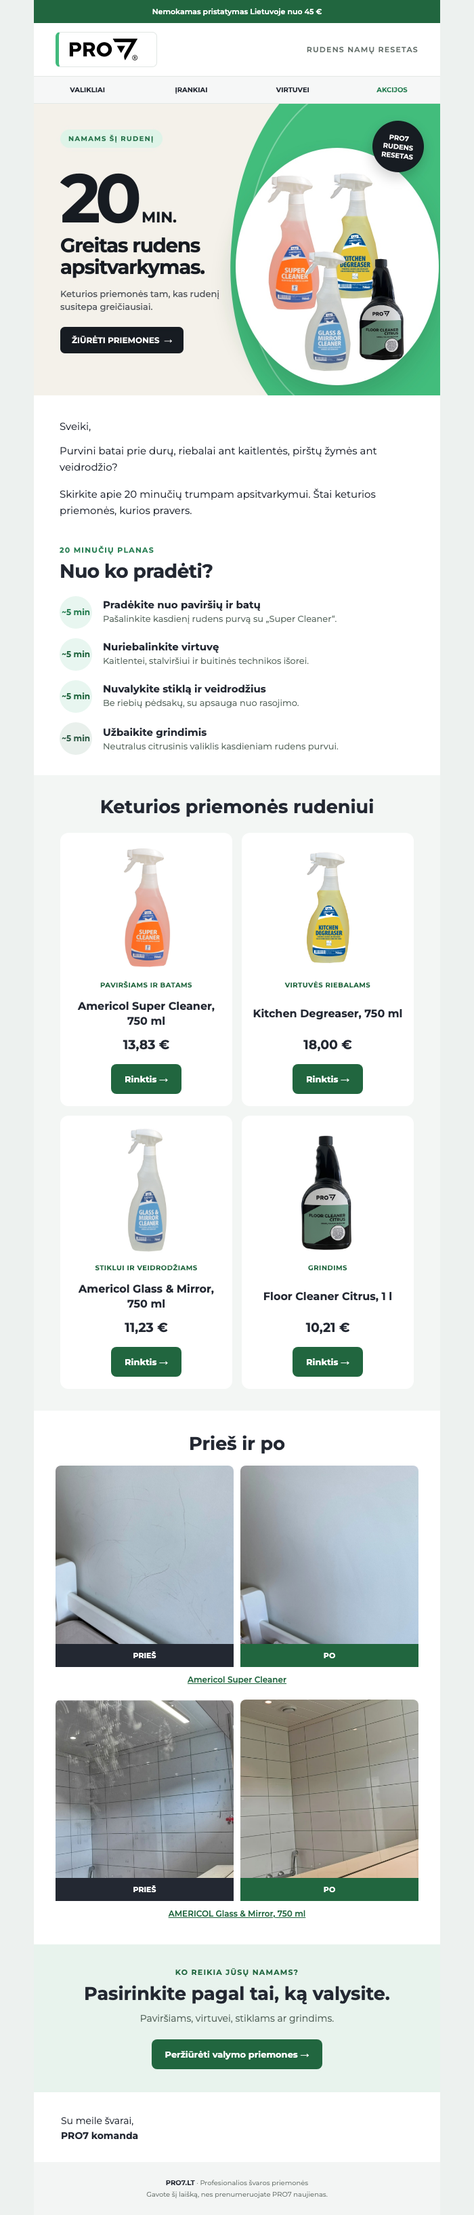
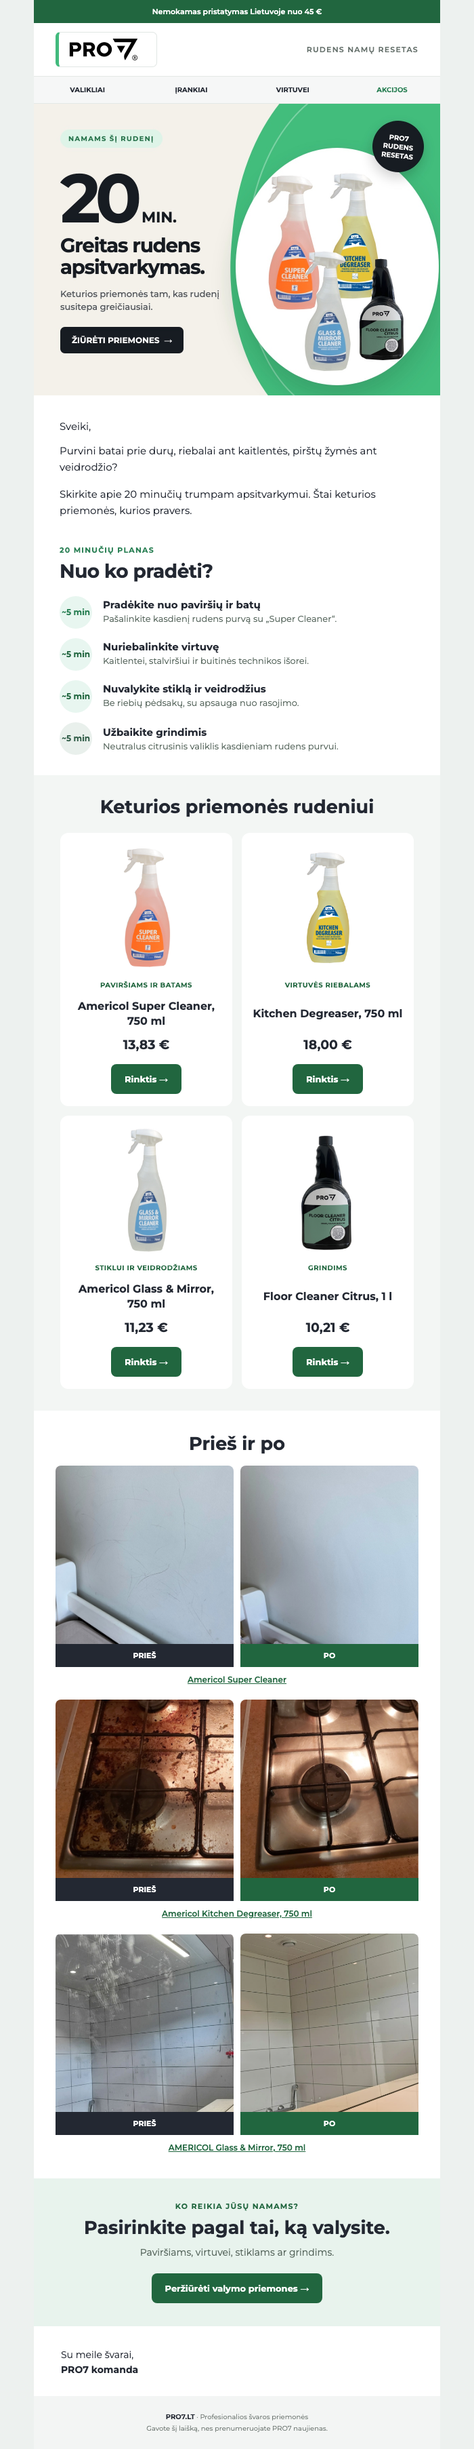
Include Kitchen Degreaser before and after in newsletter

diff --git a/nl2-20min-rudens-resetas/omnisend.html b/nl2-20min-rudens-resetas/omnisend.html
@@ -1,10 +1,10 @@
-<!-- PRO7 NL2. HTML input only. Paste omnisend-styles.css into Styles. Asset commit: fd5c6966be6053d51777ea0aad8c20beee034da1. -->
+<!-- PRO7 NL2. HTML input only. Paste omnisend-styles.css into Styles. Asset commit: 19673d591aebc471332e1b536290d04e2dd6ef27. -->
 <table role="presentation" class="pro7-email canvas" width="100%" cellpadding="0" cellspacing="0" border="0" bgcolor="#edf1ef" style="font-family:Montserrat,Arial,sans-serif;color:#232832;width:100%;max-width:600px;table-layout:fixed;margin:0 auto"><tr><td class="outer" align="center" style="font-family:Montserrat,Arial,sans-serif;padding:0">
     <table role="presentation" class="shell surface" width="100%" align="center" cellpadding="0" cellspacing="0" border="0" bgcolor="#ffffff" style="width:100%;max-width:600px;table-layout:fixed;margin:0 auto">
       <tr><td class="bar" bgcolor="#21663f" align="center" style="font-family:Montserrat,Arial,sans-serif;padding:9px 16px;font-family:Montserrat,Arial,sans-serif;font-size:11px;line-height:16px;font-weight:600;color:#ffffff">Nemokamas pristatymas Lietuvoje nuo 45 €</td></tr>
       <tr><td class="surface header" bgcolor="#ffffff" style="font-family:Montserrat,Arial,sans-serif;padding:13px 32px">
         <table cellpadding="0" cellspacing="0" border="0" role="presentation" width="100%"><tr>
-          <td style="font-family:Montserrat,Arial,sans-serif;"><a href="https://www.pro7.lt/"><img class="logo" src="https://raw.githubusercontent.com/elaiskai/pro7-email-assets/fd5c6966be6053d51777ea0aad8c20beee034da1/nl2-20min-rudens-resetas/assets/pro7-logo-safe.png" width="150" alt="PRO7" style="display:block;border:0;max-width:100%;width:150px;max-width:100%;height:auto"></a></td>
+          <td style="font-family:Montserrat,Arial,sans-serif;"><a href="https://www.pro7.lt/"><img class="logo" src="https://raw.githubusercontent.com/elaiskai/pro7-email-assets/19673d591aebc471332e1b536290d04e2dd6ef27/nl2-20min-rudens-resetas/assets/pro7-logo-safe.png" width="150" alt="PRO7" style="display:block;border:0;max-width:100%;width:150px;max-width:100%;height:auto"></a></td>
           <td class="header-label muted" align="right" style="font-family:Montserrat,Arial,sans-serif;font-family:Montserrat,Arial,sans-serif;font-size:11px;line-height:15px;font-weight:600;letter-spacing:1.2px;text-transform:uppercase;color:#65706b">Rudens namų resetas</td>
         </tr></table>
       </td></tr>
@@ -17,7 +17,7 @@
         </tr></table>
       </td></tr>
 
-      <tr><td style="font-family:Montserrat,Arial,sans-serif;"><a href="https://www.pro7.lt/svaros-prekes-valikliai/valymo-priemones"><img src="https://raw.githubusercontent.com/elaiskai/pro7-email-assets/fd5c6966be6053d51777ea0aad8c20beee034da1/nl2-20min-rudens-resetas/assets/hero-20min.jpg" width="600" alt="20 min. greitam rudens apsitvarkymui. Super Cleaner, Kitchen Degreaser, Glass &amp; Mirror ir Floor Cleaner Citrus. Žiūrėti priemones." style="display:block;border:0;max-width:100%;width:100%;height:auto"></a></td></tr>
+      <tr><td style="font-family:Montserrat,Arial,sans-serif;"><a href="https://www.pro7.lt/svaros-prekes-valikliai/valymo-priemones"><img src="https://raw.githubusercontent.com/elaiskai/pro7-email-assets/19673d591aebc471332e1b536290d04e2dd6ef27/nl2-20min-rudens-resetas/assets/hero-20min.jpg" width="600" alt="20 min. greitam rudens apsitvarkymui. Super Cleaner, Kitchen Degreaser, Glass &amp; Mirror ir Floor Cleaner Citrus. Žiūrėti priemones." style="display:block;border:0;max-width:100%;width:100%;height:auto"></a></td></tr>
 
       <tr><td class="pad" style="font-family:Montserrat,Arial,sans-serif;padding:34px 38px 22px;font-family:Montserrat,Arial,sans-serif;color:#232832">
         <p class="greeting" style="margin:0 0 12px;font-size:15px;line-height:24px">Sveiki,</p>
@@ -46,7 +46,7 @@
 <!--[if mso]><td width="268" valign="top" style="font-family:Montserrat,Arial,sans-serif;"><![endif]-->
 <table class="product-col" role="presentation" width="268" cellpadding="0" cellspacing="0" style="display:inline-table;vertical-align:top;width:100%;max-width:268px;table-layout:fixed"><tr><td class="product-gutter" style="font-family:Montserrat,Arial,sans-serif;padding:0 7px 14px">
 <table cellpadding="0" cellspacing="0" border="0" class="product-card" role="presentation" width="100%" bgcolor="#ffffff" style="border-radius:12px;background:#ffffff">
-<tr><td align="center" style="font-family:Montserrat,Arial,sans-serif;padding:18px 12px 8px"><a href="https://www.pro7.lt/svaros-prekes/113-americol-super-cleaner-0-75-l-universalus-valiklis-koncentratas"><img class="product-img" src="https://raw.githubusercontent.com/elaiskai/pro7-email-assets/fd5c6966be6053d51777ea0aad8c20beee034da1/nl2-20min-rudens-resetas/assets/super-cleaner.png" width="185" height="185" alt="Americol Super Cleaner, 750 ml" style="display:block;border:0;max-width:100%;width:185px;height:185px;margin:0 auto;border-radius:8px"></a></td></tr>
+<tr><td align="center" style="font-family:Montserrat,Arial,sans-serif;padding:18px 12px 8px"><a href="https://www.pro7.lt/svaros-prekes/113-americol-super-cleaner-0-75-l-universalus-valiklis-koncentratas"><img class="product-img" src="https://raw.githubusercontent.com/elaiskai/pro7-email-assets/19673d591aebc471332e1b536290d04e2dd6ef27/nl2-20min-rudens-resetas/assets/super-cleaner.png" width="185" height="185" alt="Americol Super Cleaner, 750 ml" style="display:block;border:0;max-width:100%;width:185px;height:185px;margin:0 auto;border-radius:8px"></a></td></tr>
 <tr><td align="center" height="28" style="font-family:Montserrat,Arial,sans-serif;height:28px;padding:0 12px;font-size:10px;line-height:14px;font-weight:700;letter-spacing:.5px;text-transform:uppercase;color:#21663f">Paviršiams ir batams</td></tr>
 <tr><td align="center" valign="middle" height="56" style="font-family:Montserrat,Arial,sans-serif;height:56px;padding:0 14px"><h3 style="margin:0;font-size:16px;line-height:22px;font-weight:700"><a href="https://www.pro7.lt/svaros-prekes/113-americol-super-cleaner-0-75-l-universalus-valiklis-koncentratas" style="text-decoration:none;color:#232832">Americol Super Cleaner, 750 ml</a></h3></td></tr>
 <tr><td align="center" height="36" style="font-family:Montserrat,Arial,sans-serif;height:36px;font-size:19px;line-height:26px;font-weight:700"><a href="https://www.pro7.lt/svaros-prekes/113-americol-super-cleaner-0-75-l-universalus-valiklis-koncentratas" style="text-decoration:none;color:#232832">13,83 €</a></td></tr>
@@ -57,7 +57,7 @@
 <!--[if mso]><td width="268" valign="top" style="font-family:Montserrat,Arial,sans-serif;"><![endif]-->
 <table class="product-col" role="presentation" width="268" cellpadding="0" cellspacing="0" style="display:inline-table;vertical-align:top;width:100%;max-width:268px;table-layout:fixed"><tr><td class="product-gutter" style="font-family:Montserrat,Arial,sans-serif;padding:0 7px 14px">
 <table cellpadding="0" cellspacing="0" border="0" class="product-card" role="presentation" width="100%" bgcolor="#ffffff" style="border-radius:12px;background:#ffffff">
-<tr><td align="center" style="font-family:Montserrat,Arial,sans-serif;padding:18px 12px 8px"><a href="https://www.pro7.lt/svaros-prekes/1416-americol-kitchen-degreaser-750-ml-virtuves-riebalu-salinimo-priemone"><img class="product-img" src="https://raw.githubusercontent.com/elaiskai/pro7-email-assets/fd5c6966be6053d51777ea0aad8c20beee034da1/nl2-20min-rudens-resetas/assets/kitchen-degreaser.png" width="185" height="185" alt="Kitchen Degreaser, 750 ml" style="display:block;border:0;max-width:100%;width:185px;height:185px;margin:0 auto;border-radius:8px"></a></td></tr>
+<tr><td align="center" style="font-family:Montserrat,Arial,sans-serif;padding:18px 12px 8px"><a href="https://www.pro7.lt/svaros-prekes/1416-americol-kitchen-degreaser-750-ml-virtuves-riebalu-salinimo-priemone"><img class="product-img" src="https://raw.githubusercontent.com/elaiskai/pro7-email-assets/19673d591aebc471332e1b536290d04e2dd6ef27/nl2-20min-rudens-resetas/assets/kitchen-degreaser.png" width="185" height="185" alt="Kitchen Degreaser, 750 ml" style="display:block;border:0;max-width:100%;width:185px;height:185px;margin:0 auto;border-radius:8px"></a></td></tr>
 <tr><td align="center" height="28" style="font-family:Montserrat,Arial,sans-serif;height:28px;padding:0 12px;font-size:10px;line-height:14px;font-weight:700;letter-spacing:.5px;text-transform:uppercase;color:#21663f">Virtuvės riebalams</td></tr>
 <tr><td align="center" valign="middle" height="56" style="font-family:Montserrat,Arial,sans-serif;height:56px;padding:0 14px"><h3 style="margin:0;font-size:16px;line-height:22px;font-weight:700"><a href="https://www.pro7.lt/svaros-prekes/1416-americol-kitchen-degreaser-750-ml-virtuves-riebalu-salinimo-priemone" style="text-decoration:none;color:#232832">Kitchen Degreaser, 750 ml</a></h3></td></tr>
 <tr><td align="center" height="36" style="font-family:Montserrat,Arial,sans-serif;height:36px;font-size:19px;line-height:26px;font-weight:700"><a href="https://www.pro7.lt/svaros-prekes/1416-americol-kitchen-degreaser-750-ml-virtuves-riebalu-salinimo-priemone" style="text-decoration:none;color:#232832">18,00 €</a></td></tr>
@@ -69,7 +69,7 @@
 <!--[if mso]><td width="268" valign="top" style="font-family:Montserrat,Arial,sans-serif;"><![endif]-->
 <table class="product-col" role="presentation" width="268" cellpadding="0" cellspacing="0" style="display:inline-table;vertical-align:top;width:100%;max-width:268px;table-layout:fixed"><tr><td class="product-gutter" style="font-family:Montserrat,Arial,sans-serif;padding:0 7px 14px">
 <table cellpadding="0" cellspacing="0" border="0" class="product-card" role="presentation" width="100%" bgcolor="#ffffff" style="border-radius:12px;background:#ffffff">
-<tr><td align="center" style="font-family:Montserrat,Arial,sans-serif;padding:18px 12px 8px"><a href="https://www.pro7.lt/svaros-prekes/114-americol-glass-and-mirror-cleanerstiklu-ir-veidrodziu-valiklis"><img class="product-img" src="https://raw.githubusercontent.com/elaiskai/pro7-email-assets/fd5c6966be6053d51777ea0aad8c20beee034da1/nl2-20min-rudens-resetas/assets/glass-mirror-750.png" width="185" height="185" alt="Americol Glass &amp; Mirror, 750 ml" style="display:block;border:0;max-width:100%;width:185px;height:185px;margin:0 auto;border-radius:8px"></a></td></tr>
+<tr><td align="center" style="font-family:Montserrat,Arial,sans-serif;padding:18px 12px 8px"><a href="https://www.pro7.lt/svaros-prekes/114-americol-glass-and-mirror-cleanerstiklu-ir-veidrodziu-valiklis"><img class="product-img" src="https://raw.githubusercontent.com/elaiskai/pro7-email-assets/19673d591aebc471332e1b536290d04e2dd6ef27/nl2-20min-rudens-resetas/assets/glass-mirror-750.png" width="185" height="185" alt="Americol Glass &amp; Mirror, 750 ml" style="display:block;border:0;max-width:100%;width:185px;height:185px;margin:0 auto;border-radius:8px"></a></td></tr>
 <tr><td align="center" height="28" style="font-family:Montserrat,Arial,sans-serif;height:28px;padding:0 12px;font-size:10px;line-height:14px;font-weight:700;letter-spacing:.5px;text-transform:uppercase;color:#21663f">Stiklui ir veidrodžiams</td></tr>
 <tr><td align="center" valign="middle" height="56" style="font-family:Montserrat,Arial,sans-serif;height:56px;padding:0 14px"><h3 style="margin:0;font-size:16px;line-height:22px;font-weight:700"><a href="https://www.pro7.lt/svaros-prekes/114-americol-glass-and-mirror-cleanerstiklu-ir-veidrodziu-valiklis" style="text-decoration:none;color:#232832">Americol Glass &amp; Mirror, 750 ml</a></h3></td></tr>
 <tr><td align="center" height="36" style="font-family:Montserrat,Arial,sans-serif;height:36px;font-size:19px;line-height:26px;font-weight:700"><a href="https://www.pro7.lt/svaros-prekes/114-americol-glass-and-mirror-cleanerstiklu-ir-veidrodziu-valiklis" style="text-decoration:none;color:#232832">11,23 €</a></td></tr>
@@ -80,7 +80,7 @@
 <!--[if mso]><td width="268" valign="top" style="font-family:Montserrat,Arial,sans-serif;"><![endif]-->
 <table class="product-col" role="presentation" width="268" cellpadding="0" cellspacing="0" style="display:inline-table;vertical-align:top;width:100%;max-width:268px;table-layout:fixed"><tr><td class="product-gutter" style="font-family:Montserrat,Arial,sans-serif;padding:0 7px 14px">
 <table cellpadding="0" cellspacing="0" border="0" class="product-card" role="presentation" width="100%" bgcolor="#ffffff" style="border-radius:12px;background:#ffffff">
-<tr><td align="center" style="font-family:Montserrat,Arial,sans-serif;padding:18px 12px 8px"><a href="https://www.pro7.lt/svaros-prekes/1375-floor-cleaner-citrus-1-l-grindu-valiklis"><img class="product-img" src="https://raw.githubusercontent.com/elaiskai/pro7-email-assets/fd5c6966be6053d51777ea0aad8c20beee034da1/nl2-20min-rudens-resetas/assets/floor-cleaner-citrus.png" width="185" height="185" alt="Floor Cleaner Citrus, 1 l" style="display:block;border:0;max-width:100%;width:185px;height:185px;margin:0 auto;border-radius:8px"></a></td></tr>
+<tr><td align="center" style="font-family:Montserrat,Arial,sans-serif;padding:18px 12px 8px"><a href="https://www.pro7.lt/svaros-prekes/1375-floor-cleaner-citrus-1-l-grindu-valiklis"><img class="product-img" src="https://raw.githubusercontent.com/elaiskai/pro7-email-assets/19673d591aebc471332e1b536290d04e2dd6ef27/nl2-20min-rudens-resetas/assets/floor-cleaner-citrus.png" width="185" height="185" alt="Floor Cleaner Citrus, 1 l" style="display:block;border:0;max-width:100%;width:185px;height:185px;margin:0 auto;border-radius:8px"></a></td></tr>
 <tr><td align="center" height="28" style="font-family:Montserrat,Arial,sans-serif;height:28px;padding:0 12px;font-size:10px;line-height:14px;font-weight:700;letter-spacing:.5px;text-transform:uppercase;color:#21663f">Grindims</td></tr>
 <tr><td align="center" valign="middle" height="56" style="font-family:Montserrat,Arial,sans-serif;height:56px;padding:0 14px"><h3 style="margin:0;font-size:16px;line-height:22px;font-weight:700"><a href="https://www.pro7.lt/svaros-prekes/1375-floor-cleaner-citrus-1-l-grindu-valiklis" style="text-decoration:none;color:#232832">Floor Cleaner Citrus, 1 l</a></h3></td></tr>
 <tr><td align="center" height="36" style="font-family:Montserrat,Arial,sans-serif;height:36px;font-size:19px;line-height:26px;font-weight:700"><a href="https://www.pro7.lt/svaros-prekes/1375-floor-cleaner-citrus-1-l-grindu-valiklis" style="text-decoration:none;color:#232832">10,21 €</a></td></tr>
@@ -93,8 +93,9 @@
 </td></tr>
 <tr><td class="pad surface" bgcolor="#ffffff" style="font-family:Montserrat,Arial,sans-serif;padding:32px;color:#232832">
 <h2 style="margin:0 0 8px;font-size:27px;line-height:33px;font-weight:700;text-align:center">Prieš ir po</h2>
-<table cellpadding="0" cellspacing="0" border="0" class="proof" role="presentation" width="100%" style="table-layout:fixed;margin-top:16px"><tr><td width="50%" valign="top" style="font-family:Montserrat,Arial,sans-serif;padding:0 5px 0 0"><a href="https://www.pro7.lt/galerija"><img src="https://raw.githubusercontent.com/elaiskai/pro7-email-assets/fd5c6966be6053d51777ea0aad8c20beee034da1/nl2-20min-rudens-resetas/assets/before-super-cleaner-email.jpg" width="258" alt="Siena prieš valymą, Americol Super Cleaner" style="display:block;border:0;max-width:100%;width:100%;height:auto;border-radius:8px 8px 0 0"></a><p style="margin:0;padding:9px;background:#232832;color:#ffffff;text-align:center;font-size:11px;line-height:16px;font-weight:700">PRIEŠ</p></td><td width="50%" valign="top" style="font-family:Montserrat,Arial,sans-serif;padding:0 0 0 5px"><a href="https://www.pro7.lt/galerija"><img src="https://raw.githubusercontent.com/elaiskai/pro7-email-assets/fd5c6966be6053d51777ea0aad8c20beee034da1/nl2-20min-rudens-resetas/assets/after-super-cleaner-email.jpg" width="258" alt="Siena po valymo, Americol Super Cleaner" style="display:block;border:0;max-width:100%;width:100%;height:auto;border-radius:8px 8px 0 0"></a><p style="margin:0;padding:9px;background:#21663f;color:#ffffff;text-align:center;font-size:11px;line-height:16px;font-weight:700">PO</p></td></tr><tr><td colspan="2" align="center" style="font-family:Montserrat,Arial,sans-serif;padding:10px 0 4px;font-size:12px;line-height:18px;font-weight:600"><a href="https://www.pro7.lt/svaros-prekes/113-americol-super-cleaner-0-75-l-universalus-valiklis-koncentratas" style="text-decoration:none;color:#21663f;text-decoration:underline">Americol Super Cleaner</a></td></tr></table>
-<table cellpadding="0" cellspacing="0" border="0" class="proof" role="presentation" width="100%" style="table-layout:fixed;margin-top:16px"><tr><td width="50%" valign="top" style="font-family:Montserrat,Arial,sans-serif;padding:0 5px 0 0"><a href="https://www.pro7.lt/galerija"><img src="https://raw.githubusercontent.com/elaiskai/pro7-email-assets/fd5c6966be6053d51777ea0aad8c20beee034da1/nl2-20min-rudens-resetas/assets/pries-pro7-valymo-priemones-43f9a.jpg" width="258" alt="Veidrodis prieš valymą, AMERICOL Glass &amp; Mirror, 750 ml" style="display:block;border:0;max-width:100%;width:100%;height:auto;border-radius:8px 8px 0 0"></a><p style="margin:0;padding:9px;background:#232832;color:#ffffff;text-align:center;font-size:11px;line-height:16px;font-weight:700">PRIEŠ</p></td><td width="50%" valign="top" style="font-family:Montserrat,Arial,sans-serif;padding:0 0 0 5px"><a href="https://www.pro7.lt/galerija"><img src="https://raw.githubusercontent.com/elaiskai/pro7-email-assets/fd5c6966be6053d51777ea0aad8c20beee034da1/nl2-20min-rudens-resetas/assets/po-pro7-valymo-priemones-3bbdc.jpg" width="258" alt="Veidrodis po valymo, AMERICOL Glass &amp; Mirror, 750 ml" style="display:block;border:0;max-width:100%;width:100%;height:auto;border-radius:8px 8px 0 0"></a><p style="margin:0;padding:9px;background:#21663f;color:#ffffff;text-align:center;font-size:11px;line-height:16px;font-weight:700">PO</p></td></tr><tr><td colspan="2" align="center" style="font-family:Montserrat,Arial,sans-serif;padding:10px 0 4px;font-size:12px;line-height:18px;font-weight:600"><a href="https://www.pro7.lt/svaros-prekes/114-americol-glass-and-mirror-cleanerstiklu-ir-veidrodziu-valiklis" style="text-decoration:none;color:#21663f;text-decoration:underline">AMERICOL Glass &amp; Mirror, 750 ml</a></td></tr></table>
+<table cellpadding="0" cellspacing="0" border="0" class="proof" role="presentation" width="100%" style="table-layout:fixed;margin-top:16px"><tr><td width="50%" valign="top" style="font-family:Montserrat,Arial,sans-serif;padding:0 5px 0 0"><a href="https://www.pro7.lt/galerija"><img src="https://raw.githubusercontent.com/elaiskai/pro7-email-assets/19673d591aebc471332e1b536290d04e2dd6ef27/nl2-20min-rudens-resetas/assets/before-super-cleaner-email.jpg" width="258" alt="Siena prieš valymą, Americol Super Cleaner" style="display:block;border:0;max-width:100%;width:100%;height:auto;border-radius:8px 8px 0 0"></a><p style="margin:0;padding:9px;background:#232832;color:#ffffff;text-align:center;font-size:11px;line-height:16px;font-weight:700">PRIEŠ</p></td><td width="50%" valign="top" style="font-family:Montserrat,Arial,sans-serif;padding:0 0 0 5px"><a href="https://www.pro7.lt/galerija"><img src="https://raw.githubusercontent.com/elaiskai/pro7-email-assets/19673d591aebc471332e1b536290d04e2dd6ef27/nl2-20min-rudens-resetas/assets/after-super-cleaner-email.jpg" width="258" alt="Siena po valymo, Americol Super Cleaner" style="display:block;border:0;max-width:100%;width:100%;height:auto;border-radius:8px 8px 0 0"></a><p style="margin:0;padding:9px;background:#21663f;color:#ffffff;text-align:center;font-size:11px;line-height:16px;font-weight:700">PO</p></td></tr><tr><td colspan="2" align="center" style="font-family:Montserrat,Arial,sans-serif;padding:10px 0 4px;font-size:12px;line-height:18px;font-weight:600"><a href="https://www.pro7.lt/svaros-prekes/113-americol-super-cleaner-0-75-l-universalus-valiklis-koncentratas" style="text-decoration:none;color:#21663f;text-decoration:underline">Americol Super Cleaner</a></td></tr></table>
+<table cellpadding="0" cellspacing="0" border="0" class="proof" role="presentation" width="100%" style="table-layout:fixed;margin-top:16px"><tr><td width="50%" valign="top" style="font-family:Montserrat,Arial,sans-serif;padding:0 5px 0 0"><a href="https://www.pro7.lt/svaros-prekes/1416-americol-kitchen-degreaser-750-ml-virtuves-riebalu-salinimo-priemone"><img src="https://raw.githubusercontent.com/elaiskai/pro7-email-assets/19673d591aebc471332e1b536290d04e2dd6ef27/nl2-20min-rudens-resetas/assets/kitchen-degreaser-before-email.jpg" width="258" alt="Kaitlentė prieš valymą, Americol Kitchen Degreaser" style="display:block;border:0;max-width:100%;width:100%;height:auto;border-radius:8px 8px 0 0"></a><p style="margin:0;padding:9px;background:#232832;color:#ffffff;text-align:center;font-size:11px;line-height:16px;font-weight:700">PRIEŠ</p></td><td width="50%" valign="top" style="font-family:Montserrat,Arial,sans-serif;padding:0 0 0 5px"><a href="https://www.pro7.lt/svaros-prekes/1416-americol-kitchen-degreaser-750-ml-virtuves-riebalu-salinimo-priemone"><img src="https://raw.githubusercontent.com/elaiskai/pro7-email-assets/19673d591aebc471332e1b536290d04e2dd6ef27/nl2-20min-rudens-resetas/assets/kitchen-degreaser-after-email.jpg" width="258" alt="Kaitlentė po valymo, Americol Kitchen Degreaser" style="display:block;border:0;max-width:100%;width:100%;height:auto;border-radius:8px 8px 0 0"></a><p style="margin:0;padding:9px;background:#21663f;color:#ffffff;text-align:center;font-size:11px;line-height:16px;font-weight:700">PO</p></td></tr><tr><td colspan="2" align="center" style="font-family:Montserrat,Arial,sans-serif;padding:10px 0 4px;font-size:12px;line-height:18px;font-weight:600"><a href="https://www.pro7.lt/svaros-prekes/1416-americol-kitchen-degreaser-750-ml-virtuves-riebalu-salinimo-priemone" style="text-decoration:none;color:#21663f;text-decoration:underline">Americol Kitchen Degreaser, 750 ml</a></td></tr></table>
+<table cellpadding="0" cellspacing="0" border="0" class="proof" role="presentation" width="100%" style="table-layout:fixed;margin-top:16px"><tr><td width="50%" valign="top" style="font-family:Montserrat,Arial,sans-serif;padding:0 5px 0 0"><a href="https://www.pro7.lt/galerija"><img src="https://raw.githubusercontent.com/elaiskai/pro7-email-assets/19673d591aebc471332e1b536290d04e2dd6ef27/nl2-20min-rudens-resetas/assets/pries-pro7-valymo-priemones-43f9a.jpg" width="258" alt="Veidrodis prieš valymą, AMERICOL Glass &amp; Mirror, 750 ml" style="display:block;border:0;max-width:100%;width:100%;height:auto;border-radius:8px 8px 0 0"></a><p style="margin:0;padding:9px;background:#232832;color:#ffffff;text-align:center;font-size:11px;line-height:16px;font-weight:700">PRIEŠ</p></td><td width="50%" valign="top" style="font-family:Montserrat,Arial,sans-serif;padding:0 0 0 5px"><a href="https://www.pro7.lt/galerija"><img src="https://raw.githubusercontent.com/elaiskai/pro7-email-assets/19673d591aebc471332e1b536290d04e2dd6ef27/nl2-20min-rudens-resetas/assets/po-pro7-valymo-priemones-3bbdc.jpg" width="258" alt="Veidrodis po valymo, AMERICOL Glass &amp; Mirror, 750 ml" style="display:block;border:0;max-width:100%;width:100%;height:auto;border-radius:8px 8px 0 0"></a><p style="margin:0;padding:9px;background:#21663f;color:#ffffff;text-align:center;font-size:11px;line-height:16px;font-weight:700">PO</p></td></tr><tr><td colspan="2" align="center" style="font-family:Montserrat,Arial,sans-serif;padding:10px 0 4px;font-size:12px;line-height:18px;font-weight:600"><a href="https://www.pro7.lt/svaros-prekes/114-americol-glass-and-mirror-cleanerstiklu-ir-veidrodziu-valiklis" style="text-decoration:none;color:#21663f;text-decoration:underline">AMERICOL Glass &amp; Mirror, 750 ml</a></td></tr></table>
 </td></tr>
       <tr><td class="pad panel" bgcolor="#e8f3ed" align="center" style="font-family:Montserrat,Arial,sans-serif;padding:34px 38px;font-family:Montserrat,Arial,sans-serif;color:#232832">
         <p style="margin:0;font-size:11px;line-height:14px;font-weight:700;letter-spacing:1.2px;color:#21663f;text-transform:uppercase">Ko reikia Jūsų namams?</p>

diff --git a/nl2-20min-rudens-resetas/index.html b/nl2-20min-rudens-resetas/index.html
@@ -153,6 +153,7 @@
 <tr><td class="pad surface" bgcolor="#ffffff" style="padding:32px;color:#232832">
 <h2 style="margin:0 0 8px;font-size:27px;line-height:33px;font-weight:700;text-align:center">Prieš ir po</h2>
 <table cellpadding="0" cellspacing="0" border="0" class="proof" role="presentation" width="100%" style="table-layout:fixed;margin-top:16px"><tr><td width="50%" valign="top" style="padding:0 5px 0 0"><a href="https://www.pro7.lt/galerija"><img src="assets/before-super-cleaner-email.jpg" width="258" alt="Siena prieš valymą, Americol Super Cleaner" style="display:block;border:0;max-width:100%;width:100%;height:auto;border-radius:8px 8px 0 0"></a><p style="margin:0;padding:9px;background:#232832;color:#ffffff;text-align:center;font-size:11px;line-height:16px;font-weight:700">PRIEŠ</p></td><td width="50%" valign="top" style="padding:0 0 0 5px"><a href="https://www.pro7.lt/galerija"><img src="assets/after-super-cleaner-email.jpg" width="258" alt="Siena po valymo, Americol Super Cleaner" style="display:block;border:0;max-width:100%;width:100%;height:auto;border-radius:8px 8px 0 0"></a><p style="margin:0;padding:9px;background:#21663f;color:#ffffff;text-align:center;font-size:11px;line-height:16px;font-weight:700">PO</p></td></tr><tr><td colspan="2" align="center" style="padding:10px 0 4px;font-size:12px;line-height:18px;font-weight:600"><a href="https://www.pro7.lt/svaros-prekes/113-americol-super-cleaner-0-75-l-universalus-valiklis-koncentratas" style="text-decoration:none;color:#21663f;text-decoration:underline">Americol Super Cleaner</a></td></tr></table>
+<table cellpadding="0" cellspacing="0" border="0" class="proof" role="presentation" width="100%" style="table-layout:fixed;margin-top:16px"><tr><td width="50%" valign="top" style="padding:0 5px 0 0"><a href="https://www.pro7.lt/svaros-prekes/1416-americol-kitchen-degreaser-750-ml-virtuves-riebalu-salinimo-priemone"><img src="assets/kitchen-degreaser-before-email.jpg" width="258" alt="Kaitlentė prieš valymą, Americol Kitchen Degreaser" style="display:block;border:0;max-width:100%;width:100%;height:auto;border-radius:8px 8px 0 0"></a><p style="margin:0;padding:9px;background:#232832;color:#ffffff;text-align:center;font-size:11px;line-height:16px;font-weight:700">PRIEŠ</p></td><td width="50%" valign="top" style="padding:0 0 0 5px"><a href="https://www.pro7.lt/svaros-prekes/1416-americol-kitchen-degreaser-750-ml-virtuves-riebalu-salinimo-priemone"><img src="assets/kitchen-degreaser-after-email.jpg" width="258" alt="Kaitlentė po valymo, Americol Kitchen Degreaser" style="display:block;border:0;max-width:100%;width:100%;height:auto;border-radius:8px 8px 0 0"></a><p style="margin:0;padding:9px;background:#21663f;color:#ffffff;text-align:center;font-size:11px;line-height:16px;font-weight:700">PO</p></td></tr><tr><td colspan="2" align="center" style="padding:10px 0 4px;font-size:12px;line-height:18px;font-weight:600"><a href="https://www.pro7.lt/svaros-prekes/1416-americol-kitchen-degreaser-750-ml-virtuves-riebalu-salinimo-priemone" style="text-decoration:none;color:#21663f;text-decoration:underline">Americol Kitchen Degreaser, 750 ml</a></td></tr></table>
 <table cellpadding="0" cellspacing="0" border="0" class="proof" role="presentation" width="100%" style="table-layout:fixed;margin-top:16px"><tr><td width="50%" valign="top" style="padding:0 5px 0 0"><a href="https://www.pro7.lt/galerija"><img src="assets/pries-pro7-valymo-priemones-43f9a.jpg" width="258" alt="Veidrodis prieš valymą, AMERICOL Glass &amp; Mirror, 750 ml" style="display:block;border:0;max-width:100%;width:100%;height:auto;border-radius:8px 8px 0 0"></a><p style="margin:0;padding:9px;background:#232832;color:#ffffff;text-align:center;font-size:11px;line-height:16px;font-weight:700">PRIEŠ</p></td><td width="50%" valign="top" style="padding:0 0 0 5px"><a href="https://www.pro7.lt/galerija"><img src="assets/po-pro7-valymo-priemones-3bbdc.jpg" width="258" alt="Veidrodis po valymo, AMERICOL Glass &amp; Mirror, 750 ml" style="display:block;border:0;max-width:100%;width:100%;height:auto;border-radius:8px 8px 0 0"></a><p style="margin:0;padding:9px;background:#21663f;color:#ffffff;text-align:center;font-size:11px;line-height:16px;font-weight:700">PO</p></td></tr><tr><td colspan="2" align="center" style="padding:10px 0 4px;font-size:12px;line-height:18px;font-weight:600"><a href="https://www.pro7.lt/svaros-prekes/114-americol-glass-and-mirror-cleanerstiklu-ir-veidrodziu-valiklis" style="text-decoration:none;color:#21663f;text-decoration:underline">AMERICOL Glass &amp; Mirror, 750 ml</a></td></tr></table>
 </td></tr>
       <tr><td class="pad panel" bgcolor="#e8f3ed" align="center" style="padding:34px 38px;font-family:Montserrat,Arial,sans-serif;color:#232832">

diff --git a/nl2-20min-rudens-resetas/CAMPAIGN.md b/nl2-20min-rudens-resetas/CAMPAIGN.md
@@ -47,14 +47,16 @@ Stiklo valiklio puslapis patvirtina apsaugą nuo rasojimo. Vadovautis produkto n
 
 ## Prieš ir po kilmė
 
-Visos poros iš https://www.pro7.lt/galerija, susiejimai patikrinti tos pačios galerijos kortelės produkto nuorodoje:
+Super Cleaner ir Glass & Mirror poros iš https://www.pro7.lt/galerija, susiejimai patikrinti tos pačios galerijos kortelės produkto nuorodoje. Kitchen Degreaser porą pateikė klientas šiame pokalbyje ir aiškiai priskyrė šiam produktui; jos kilmė nėra PRO7 viešoji galerija.
 
 | Pora | Prieš failas | Po failas | Galerijos susietas produktas |
 | --- | --- | --- | --- |
 | Siena | pries-pro7-valymo-priemones-0f2ed.png | po-pro7-valymo-priemones-48455.png | Americol Super Cleaner, ID 113 |
 | Veidrodis | pries-pro7-valymo-priemones-43f9a.jpg | po-pro7-valymo-priemones-3bbdc.jpg | AMERICOL Glass & Mirror, 750 ml, ID 114 |
 
-Palikta po vieną porą dviem skirtingiems produktams: Super Cleaner ir Americol Glass & Mirror 750 ml. Pasikartojanti lango pora pašalinta iš laiško, jos šaltiniai liko assets archyve. Abiejų porų užrašai veda į tikslų susietą produktą, nuotraukos į galeriją. Vaizdai nekeisti, išskyrus sienos poros dydžio ir failo formato optimizavimą.
+Palikta po vieną porą trims skirtingiems produktams: Super Cleaner, Kitchen Degreaser ir Americol Glass & Mirror 750 ml. Pasikartojanti lango pora pašalinta iš laiško, jos šaltiniai liko assets archyve. Užrašai veda į tikslų susietą produktą, viešosios galerijos nuotraukos į galeriją, Kitchen Degreaser nuotraukos į produkto ID 1416 puslapį.
+
+Kitchen Degreaser originalai: `kitchen-degreaser-before-source.png` (nevalyta kaitlentė, pateiktas failas df81f39c) ir `kitchen-degreaser-after-source.png` (nuvalyta kaitlentė, pateiktas failas be4a8540). Laiško kopijos yra 600 × 600 px JPEG, be apkirpimo ar retušavimo. Siuntimo tvarka nesutapo su prieš / po tvarka, todėl nevalyta nuotrauka įdėta kairėje, nuvalyta dešinėje. Rezultatui nepriskiriamas konkretus valymo laikas.
 
 Aprasojusio / neaprasojusio veidrodžio tikros eksperimento nuotraukos dar laukiama iš Aistės. Esama veidrodžio pora rodo valymą, ne kontroliuojamą rasojimo eksperimentą. Dirbtinis produkto bandymo rezultatas negeneruotas ir neįdėtas. Subject pagal kliento pageidavimą šiame pakeitime nekeistas.
 

diff --git a/nl2-20min-rudens-resetas/QA.md b/nl2-20min-rudens-resetas/QA.md
@@ -4,13 +4,13 @@ Maketas ir eksportas pakartotinai patikrinti 2026-09-09. Omnisend Custom HTML bl
 
 ## Eksportas
 
-- Paveikslėlių commit: `fd5c6966be6053d51777ea0aad8c20beee034da1`.
-- 10 paveikslėlių nuorodų, visos HTTPS; tikrinamas jų užsikrovimas iš viešų GitHub adresų.
-- Bendras laiške naudojamų paveikslėlių dydis 761 308 baitai.
+- Paveikslėlių commit: `19673d591aebc471332e1b536290d04e2dd6ef27`.
+- 12 paveikslėlių nuorodų, visos HTTPS; tikrinamas jų užsikrovimas iš viešų GitHub adresų.
+- Bendras laiške naudojamų paveikslėlių dydis 1 030 543 baitai.
 - HTML ir CSS pateikiami atskirai. Eksporto HTML neturi style žymų, kritinis pločio valdymas yra inline.
 - 11 unikalių PRO7 nuorodų. Jos buvo ankstesnėje patikrintoje nuorodų aibėje; ID 114 puslapis papildomai patikrintas 2026-09-09.
 - Produktų ID: 113, 1416, 114, 1375. Glass & Mirror pakeistas į Americol 750 ml, 11,23 €. Nuotrauka, pavadinimas, kaina ir CTA veda į ID 114.
-- Dvi prieš / po poros dviem skirtingiems produktams. Nebėra antro pasikartojančio stiklo valymo pavyzdžio. Tikras rasojimo eksperimentas dar negautas ir nepateikiamas kaip įvykęs.
+- Trys prieš / po poros trims skirtingiems produktams. Kitchen Degreaser porą pateikė ir produktui priskyrė klientas. Kairėje nevalyta kaitlentė, dešinėje nuvalyta; vaizdai neretušuoti. Abiejų nuotraukų ir užrašo nuorodos veda į ID 1416. Tikras rasojimo eksperimentas dar negautas ir nepateikiamas kaip įvykęs.
 - Galerijoje po vieną nuorodą ant kiekvieno paveikslėlio, nėra nuorodomis apgaubtų lentelių.
 - Produktų nuotraukos, pavadinimai, kainos ir mygtukai yra paspaudžiami.
 - Eksporte nėra vietinių paveikslėlių adresų, DOCTYPE, head, body, script žymų ar mūsų unsubscribe nuorodos.
